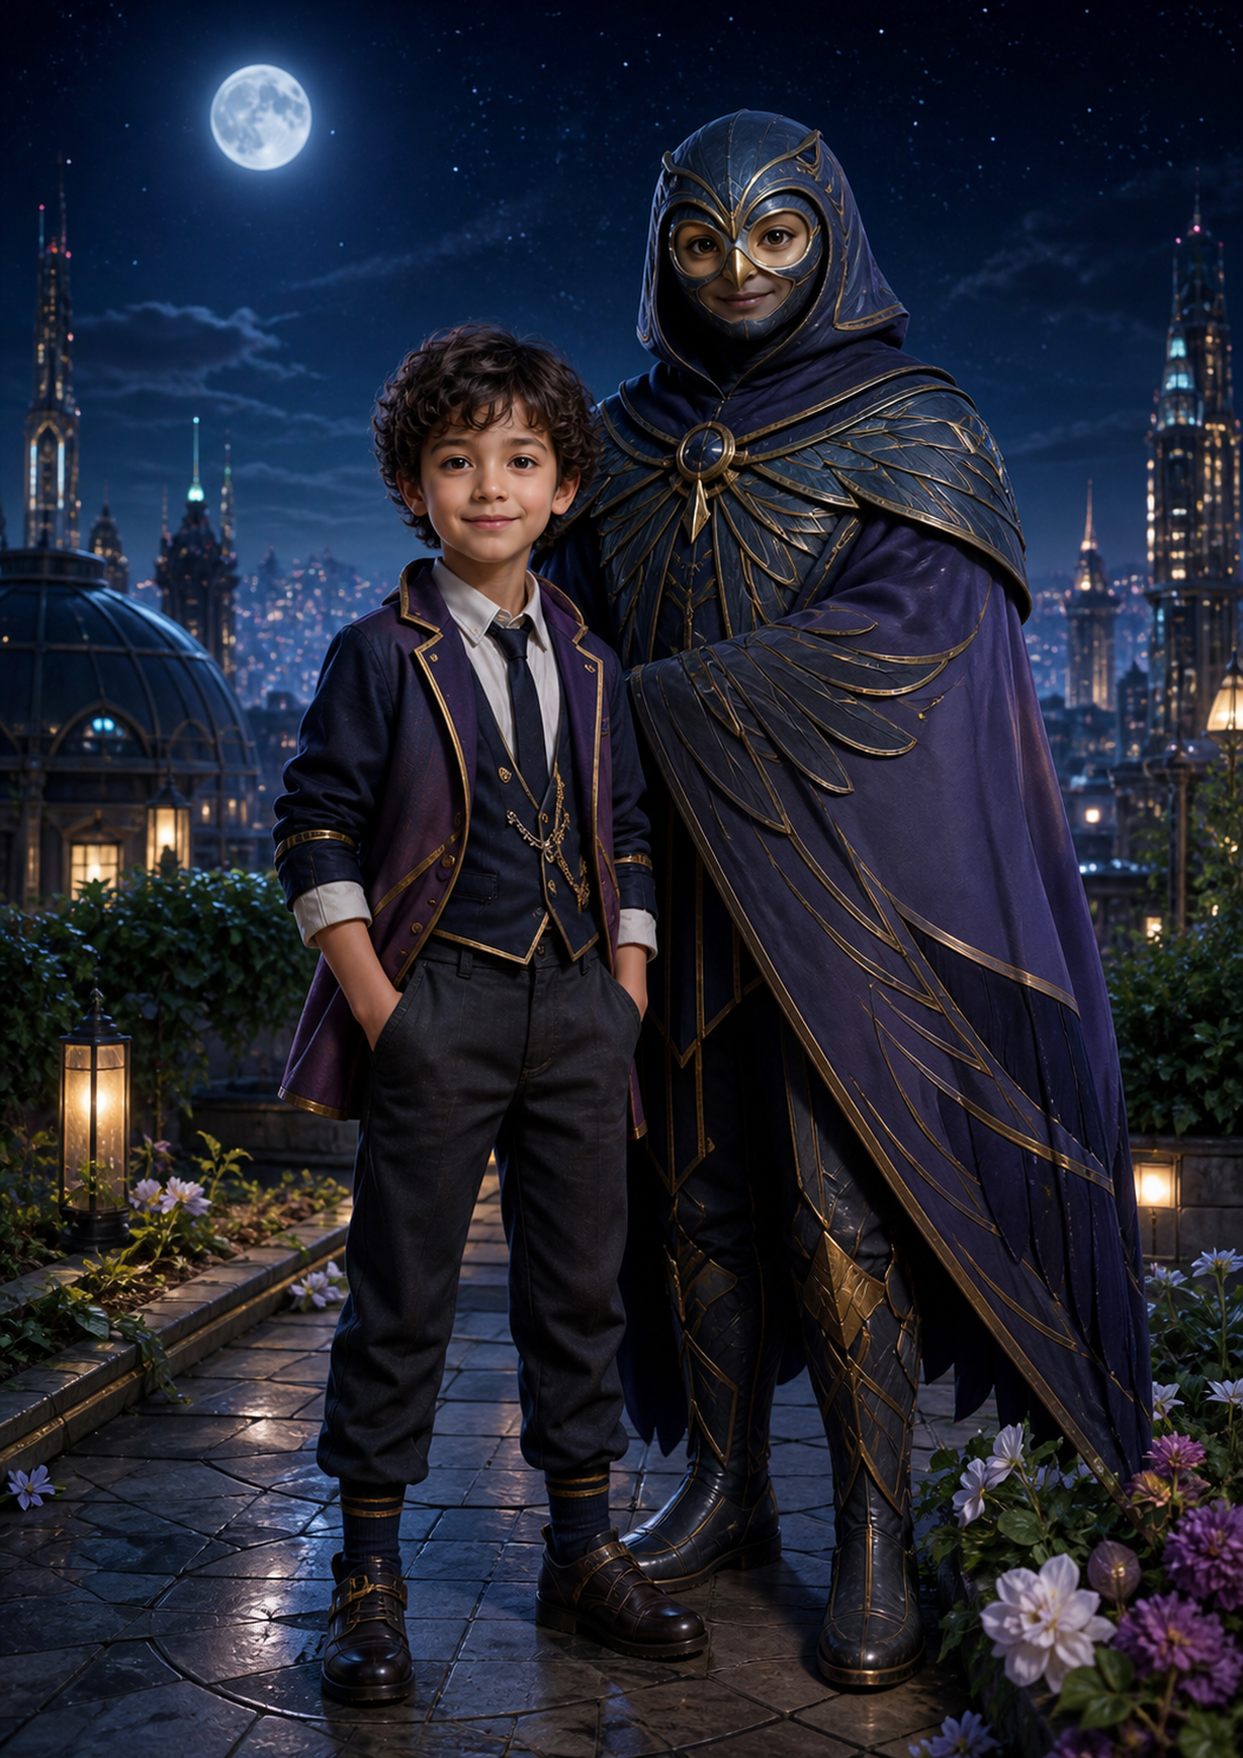
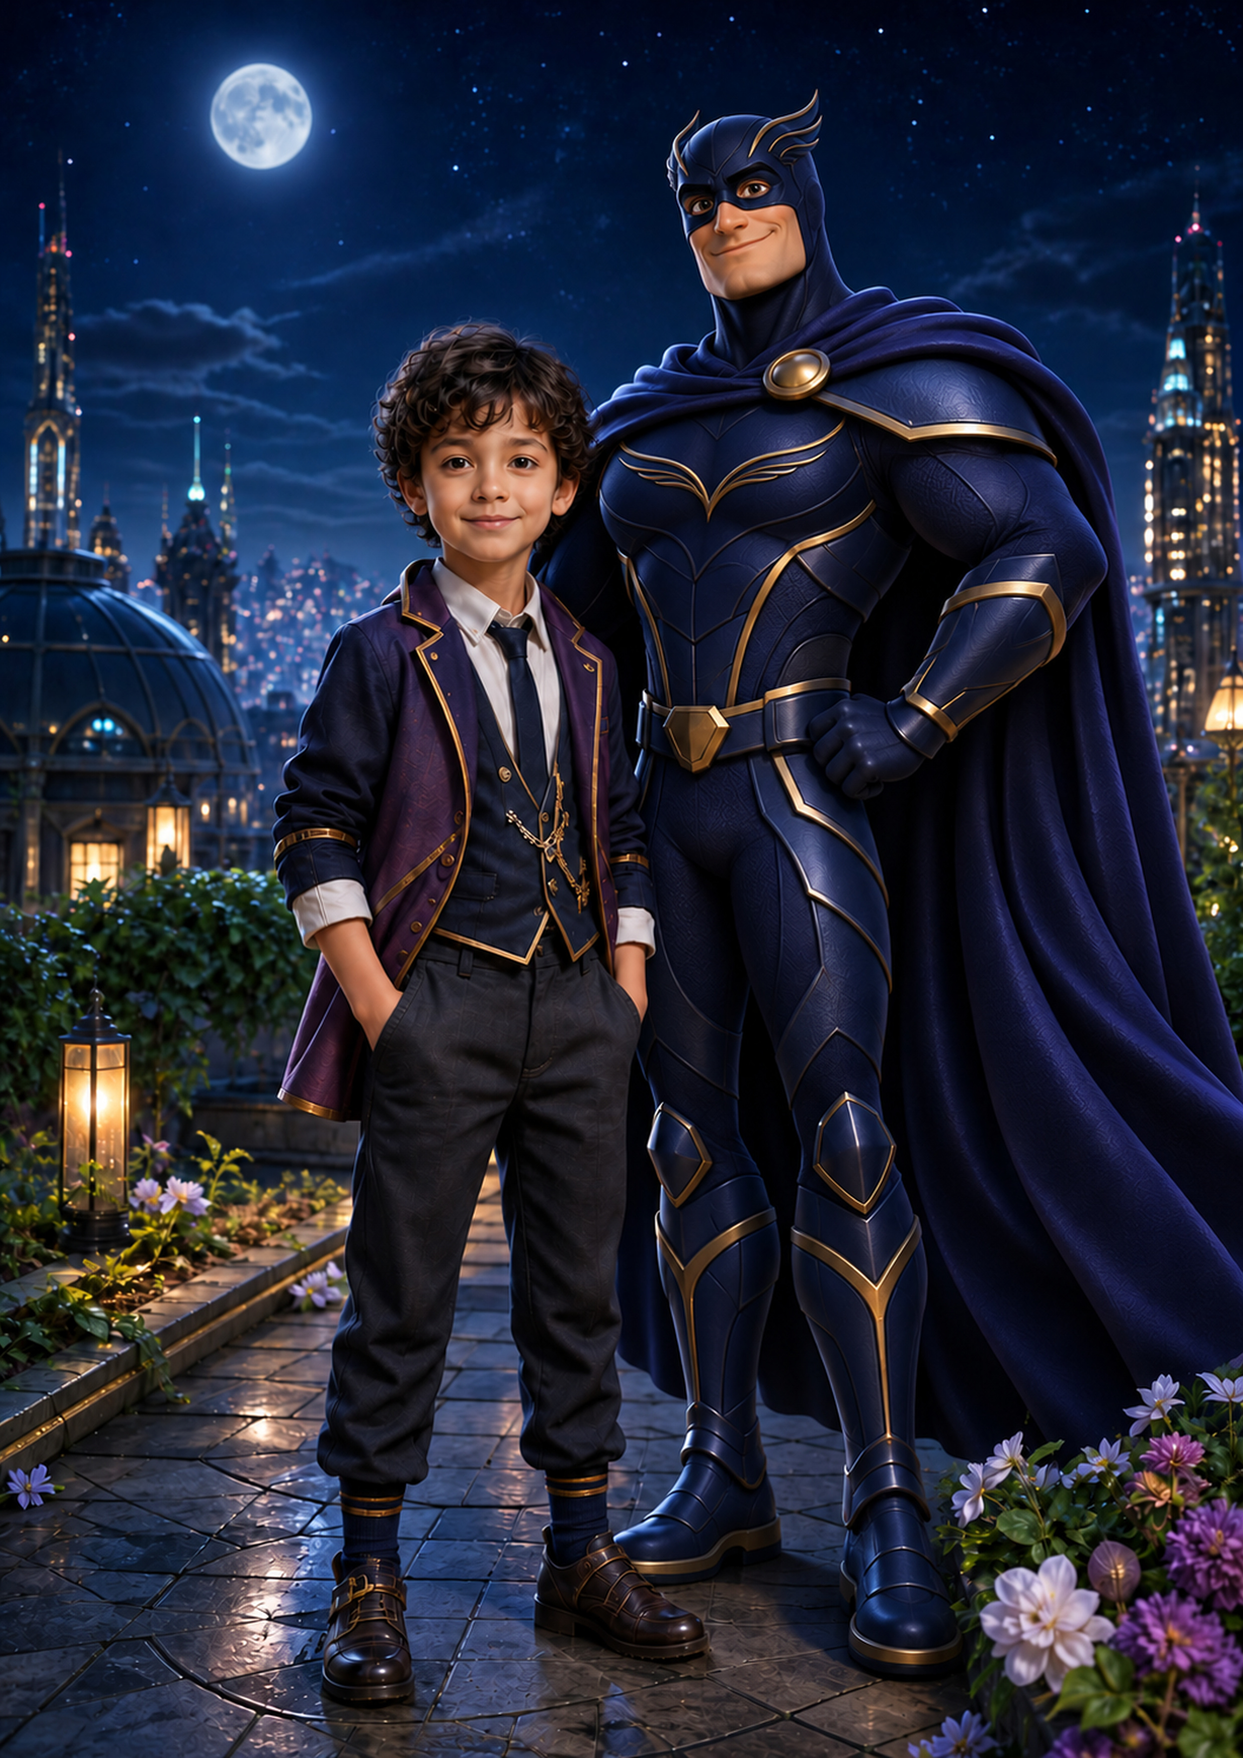
Refresh child character portraits and Hogwarts themes

diff --git a/js/data/child-portrait-a4-scenes.js b/js/data/child-portrait-a4-scenes.js
@@ -13,13 +13,13 @@ const centeredFace = Object.freeze({ centerX: 0.5, centerY: 0.275, width: 0.175,
 const centeredCadetFace = Object.freeze({ centerX: 0.5, centerY: 0.235, width: 0.17, height: 0.15 });
 const teamFace = Object.freeze({ centerX: 0.36, centerY: 0.27, width: 0.17, height: 0.15 });
 
-const scene = ({ headwear = "none", faceGuide = teamFace, ...item }) => ({
+const scene = ({ headwear = "none", faceGuide = teamFace, version = 3, ...item }) => ({
   ...item,
   headwear,
   faceGuide,
   canvas: A4_CHILD_PORTRAIT_CANVAS,
   enabled: true,
-  version: 3
+  version
 });
 
 export const A4_CHILD_PORTRAIT_SCENES = Object.freeze([
@@ -40,9 +40,10 @@ export const A4_CHILD_PORTRAIT_SCENES = Object.freeze([
   scene({ id: "child-boy-solar-cape-guardian", title: "Супермен", grade: 2, gender: "boy", theme: "solar-cape-guardian", tags: ["супергерой", "плащ", "город", "команда", "a4"], description: "Ребёнок рядом с оригинальным солнечным защитником в плаще." }),
   scene({ id: "child-boy-emerald-giant-friend", title: "Халк", grade: 2, gender: "boy", theme: "emerald-giant-friend", tags: ["супергерой", "великан", "наука", "дружба", "a4"], description: "Добрый изумрудный великан показывает большой палец рядом с ребёнком." }),
   scene({ id: "child-boy-iron-tech-guardian", title: "Железный человек", grade: 3, gender: "boy", theme: "iron-tech-guardian", tags: ["супергерой", "броня", "технологии", "команда", "a4"], description: "Оригинальный бронированный техностраж рядом с ребёнком в городе будущего." }),
-  scene({ id: "child-boy-thunder-guardian", title: "Тор", grade: 3, gender: "boy", theme: "thunder-guardian", tags: ["супергерой", "гром", "броня", "горы", "a4"], description: "Ребёнок в команде с оригинальным защитником небесной обсерватории." }),
+  scene({ id: "child-boy-thunder-guardian", title: "Тор", grade: 3, gender: "boy", theme: "thunder-guardian", tags: ["супергерой", "гром", "броня", "горы", "a4"], description: "Ребёнок рядом с молодым защитником небесной обсерватории.", version: 4 }),
   scene({ id: "child-boy-speed-hedgehog-friend", title: "Соник", grade: 1, gender: "boy", theme: "speed-hedgehog-friend", tags: ["мультфильм", "скорость", "синий зверёк", "дружба", "a4"], description: "Весёлый скоростной зверёк даёт ребёнку пять на яркой трассе." }),
-  scene({ id: "child-boy-night-wing-guardian", title: "Бэтмен", grade: 3, gender: "boy", theme: "night-wing-guardian", tags: ["супергерой", "ночь", "крылья", "город", "a4"], description: "Оригинальный крылатый защитник рядом с ребёнком в лунном саду." }),
+  scene({ id: "child-boy-night-wing-guardian", title: "Бэтмен", grade: 3, gender: "boy", theme: "night-wing-guardian", tags: ["супергерой", "ночь", "крылья", "город", "мультяшный", "a4"], description: "Мужественный мультяшный ночной защитник рядом с ребёнком в лунном саду.", version: 4 }),
+  scene({ id: "child-boy-hogwarts-harry", title: "Хогвартс — Гарри Поттер", grade: 2, gender: "boy", theme: "hogwarts-harry", tags: ["хогвартс", "гарри поттер", "магия", "школа", "волшебник", "a4"], description: "Юный волшебник Гарри Поттер в библиотеке Хогвартса.", faceGuide: { centerX: 0.5, centerY: 0.205, width: 0.24, height: 0.18 }, version: 4 }),
   scene({ id: "child-boy-ninja-turtle-friend", title: "Черепашки-ниндзя", grade: 1, gender: "boy", theme: "ninja-turtle-friend", tags: ["мультфильм", "черепаха", "исследователь", "дружба", "a4"], description: "Добрая черепаха-путешественник приветствует ребёнка в вечернем саду." }),
   scene({ id: "child-boy-robot-lion-pilot", title: "Вольтрон", grade: 2, gender: "boy", theme: "robot-lion-pilot", tags: ["робот", "лев", "космос", "дружба", "a4"], description: "Ребёнок рядом с благородным белым роботом-львом в космическом ангаре." }),
   scene({ id: "child-boy-cosmic-ranger-friend", title: "Базз Лайтер", grade: 2, gender: "boy", theme: "cosmic-ranger-friend", tags: ["космос", "рейнджер", "планета", "команда", "a4"], description: "Оригинальный космический исследователь показывает ребёнку карту далёкой планеты." }),
@@ -58,15 +59,15 @@ export const A4_CHILD_PORTRAIT_SCENES = Object.freeze([
   scene({ id: "child-girl-rose-princess-beast", title: "Белль и Чудовище", grade: 2, gender: "girl", theme: "rose-princess-beast", tags: ["принцесса", "зверь", "роза", "библиотека", "a4"], description: "Ребёнок, книжная красавица и добрый зверь в зачарованной библиотеке." }),
   scene({ id: "child-girl-glass-slipper-princess", title: "Золушка", grade: 1, gender: "girl", theme: "glass-slipper-princess", tags: ["принцесса", "туфелька", "дворец", "сказка", "a4"], description: "Принцесса бала показывает ребёнку хрустальную туфельку на дворцовой лестнице." }),
   scene({ id: "child-girl-coral-sea-princess", title: "Ариэль", grade: 2, gender: "girl", theme: "coral-sea-princess", tags: ["принцесса", "море", "кораллы", "сказка", "a4"], description: "Морская принцесса со светящейся раковиной рядом с ребёнком в подводном дворце." }),
-  scene({ id: "child-girl-ocean-wayfinder", title: "Моана", grade: 3, gender: "girl", theme: "ocean-wayfinder", tags: ["океан", "путешествие", "остров", "лодка", "a4"], description: "Отважная океанская путешественница встречает ребёнка на тропическом берегу." }),
-  scene({ id: "child-girl-northern-crystal-queen", title: "Эльза", grade: 3, gender: "girl", theme: "northern-crystal-queen", tags: ["королева", "север", "кристаллы", "сияние", "a4"], description: "Добрая северная королева с кристальным фонарём под полярным сиянием." }),
+  scene({ id: "child-girl-ocean-wayfinder", title: "Моана", grade: 3, gender: "girl", theme: "ocean-wayfinder", tags: ["океан", "путешествие", "остров", "лодка", "a4"], description: "Молодая океанская путешественница встречает ребёнка на тропическом берегу.", version: 4 }),
+  scene({ id: "child-girl-northern-crystal-queen", title: "Эльза", grade: 3, gender: "girl", theme: "northern-crystal-queen", tags: ["королева", "север", "кристаллы", "сияние", "a4"], description: "Молодая северная королева с кристальным фонарём под полярным сиянием.", version: 4 }),
   scene({ id: "child-girl-moon-warrior-princess", title: "Лунная принцесса-воительница", grade: 4, gender: "girl", theme: "moon-warrior-princess", tags: ["принцесса", "луна", "воительница", "дворец", "a4"], description: "Мирная лунная принцесса с веером рядом с ребёнком в цветущем дворе." }),
   scene({ id: "child-girl-desert-palace-princess", title: "Жасмин", grade: 3, gender: "girl", theme: "desert-palace-princess", tags: ["принцесса", "дворец", "пустыня", "фонарь", "a4"], description: "Восточная принцесса с фонарём на террасе над сказочным городом." }),
   scene({ id: "child-girl-star-cape-heroine", title: "Капитан Марвел", grade: 3, gender: "girl", theme: "star-cape-heroine", tags: ["супергероиня", "плащ", "город", "команда", "a4"], description: "Ребёнок рядом с оригинальной звёздной героиней на крыше города будущего." }),
   scene({ id: "child-girl-sun-shield-heroine", title: "Чудо-женщина", grade: 3, gender: "girl", theme: "sun-shield-heroine", tags: ["супергероиня", "щит", "храм", "команда", "a4"], description: "Оригинальная защитница с солнечным щитом стоит рядом с ребёнком." }),
-  scene({ id: "child-girl-ladybird-heroine", title: "Леди Баг", grade: 2, gender: "girl", theme: "ladybird-heroine", tags: ["супергероиня", "божья коровка", "город", "талисман", "a4"], description: "Городская героиня с мотивом божьей коровки дарит ребёнку талисман удачи." }),
+  scene({ id: "child-girl-ladybird-heroine", title: "Леди Баг и Супер-Кот", grade: 2, gender: "girl", theme: "ladybird-heroine", tags: ["супергероиня", "божья коровка", "супер-кот", "мультяшный", "город", "талисман", "a4"], description: "Мультяшные Леди Баг и Супер-Кот дарят ребёнку талисман удачи.", version: 4 }),
   scene({ id: "child-girl-bear-forest-friend", title: "Маша и Медведь", grade: 1, gender: "girl", theme: "bear-forest-friend", tags: ["медведь", "лес", "домик", "дружба", "a4"], description: "Ребёнок с добрым медведем на солнечной поляне у деревянного домика." }),
-  scene({ id: "child-girl-fashion-dream-friend", title: "Барби", grade: 3, gender: "girl", theme: "fashion-dream-friend", tags: ["мода", "розовый", "студия", "наставница", "a4"], description: "Модная наставница помогает ребёнку придумать праздничный образ в светлой студии." }),
+  scene({ id: "child-girl-fashion-dream-friend", title: "Барби", grade: 3, gender: "girl", theme: "fashion-dream-friend", tags: ["мода", "розовый", "студия", "наставница", "a4"], description: "Молодая модная наставница помогает ребёнку придумать праздничный образ в светлой студии.", version: 4 }),
   scene({ id: "child-girl-butterfly-fairy-mentor", title: "Фея-бабочка", grade: 1, gender: "girl", theme: "butterfly-fairy-mentor", tags: ["фея", "бабочка", "сад", "волшебство", "a4"], description: "Оригинальная фея-бабочка с цветочным фонарём рядом с ребёнком в волшебном саду." })
 ]);
 

diff --git a/sw.js b/sw.js
@@ -1,5 +1,5 @@
 const CACHE_PREFIX = "vakha-studio-cache-";
-const CACHE_VERSION = "v132";
+const CACHE_VERSION = "v133";
 const CACHE_NAME = `${CACHE_PREFIX}${CACHE_VERSION}`;
 const CHILD_TEMPLATE_PREVIEWS = [
   "child-boy-mma-tank", "child-boy-mma-shirt", "child-boy-boxing-tank", "child-boy-boxing-shirt",
@@ -21,7 +21,7 @@ const CHILD_TEMPLATE_PREVIEWS = [
   "child-boy-rescue-helicopter-pilot", "child-boy-solar-cape-guardian",
   "child-boy-emerald-giant-friend", "child-boy-iron-tech-guardian",
   "child-boy-thunder-guardian", "child-boy-speed-hedgehog-friend",
-  "child-boy-night-wing-guardian", "child-boy-ninja-turtle-friend",
+  "child-boy-night-wing-guardian", "child-boy-hogwarts-harry", "child-boy-ninja-turtle-friend",
   "child-boy-robot-lion-pilot", "child-boy-cosmic-ranger-friend",
   "child-boy-city-hero-shield", "child-girl-chechen-mosque-garden",
   "child-girl-chechen-stone-tower", "child-girl-chechen-wolf-companion",
@@ -83,13 +83,13 @@ const APP_SHELL = [
   "./",
   "./index.html",
   "./styles.css",
-  "./styles.css?v=132",
+  "./styles.css?v=133",
   "./app.js",
   "./js/core/app.js",
-  "./js/core/app.js?v=132",
+  "./js/core/app.js?v=133",
   "./js/core/bootstrap.js",
   "./js/core/legacy-app.js",
-  "./js/core/legacy-app.js?v=132",
+  "./js/core/legacy-app.js?v=133",
   "./js/core/router.js",
   "./js/core/state.js",
   "./js/core/events.js",
@@ -111,7 +111,7 @@ const APP_SHELL = [
   "./js/services/transfer-asset-loader.js",
   "./js/services/catalog-themes.js",
   "./js/services/teacher-broadcast.js",
-  "./js/services/teacher-broadcast.js?v=132",
+  "./js/services/teacher-broadcast.js?v=133",
   "./js/services/class-links-transfer.js",
   "./assets/class-photo/class-photo-a4.png",
   "./assets/game-photo-services/free-fire.webp",
@@ -169,7 +169,7 @@ const APP_SHELL = [
   "./js/services/backup-service.js",
   "./js/services/conflict-service.js",
   "./js/services/export-filter-service.js",
-  "./js/services/export-filter-service.js?v=132",
+  "./js/services/export-filter-service.js?v=133",
   "./js/services/file-system-service.js",
   "./js/services/integrity-service.js",
   "./js/services/import-preflight-service.js",

diff --git a/js/data/child-portrait-templates.js b/js/data/child-portrait-templates.js
@@ -193,9 +193,9 @@ export const CHILD_PORTRAIT_TEMPLATES = [
     faceGuide: { centerX: 0.5, centerY: 0.265, width: 0.21, height: 0.185 }
   }),
   template({
-    id: "child-girl-magic-academy-hijab", title: "Академия магии", grade: 2, gender: "girl", headwear: "hijab", theme: "magic-academy",
-    tags: ["магия", "академия", "хиджаб"], description: "Ученица доброй академии магии в аккуратном светлом хиджабе.",
-    faceGuide: { centerX: 0.5, centerY: 0.285, width: 0.205, height: 0.18 }
+    id: "child-girl-magic-academy-hijab", title: "Хогвартс — Гермиона", grade: 2, gender: "girl", headwear: "hijab", theme: "hogwarts-hermione",
+    tags: ["хогвартс", "гермиона", "магия", "школа", "хиджаб"], description: "Юная волшебница Гермиона в библиотеке Хогвартса, в аккуратном светлом хиджабе.",
+    faceGuide: { centerX: 0.5, centerY: 0.285, width: 0.205, height: 0.18 }, version: 3
   }),
   template({
     id: "child-girl-horse-rider-headscarf", title: "Юная наездница", grade: 4, gender: "girl", headwear: "headscarf", theme: "horse-rider",

diff --git a/js/core/legacy-app.js b/js/core/legacy-app.js
@@ -1,8 +1,8 @@
-import { openTeacherBroadcast } from "../services/teacher-broadcast.js?v=132";
+import { openTeacherBroadcast } from "../services/teacher-broadcast.js?v=133";
 import { parseClassLinksTransfer, planClassLinksImport } from "../services/class-links-transfer.js";
 import { CATALOG_THEMES, matchesCatalogTheme } from "../services/catalog-themes.js";
 import { createTransferAssetLoader } from "../services/transfer-asset-loader.js";
-import { buildSectionExportSelection } from "../services/export-filter-service.js?v=132";
+import { buildSectionExportSelection } from "../services/export-filter-service.js?v=133";
 import { mountRosterPhotoImport } from "../services/roster-photo-import.js";
 import { appendPhotoNames } from "../services/roster-photo-parser.js";
 import { rosterName, parseRoster, planRoster } from "../services/class-roster.js";

diff --git a/index.html b/index.html
@@ -6,7 +6,7 @@
     <meta name="theme-color" content="#2563EB" />
     <title>Vakha Studio</title>
     <link rel="manifest" href="./manifest.webmanifest" />
-    <link rel="stylesheet" href="./styles.css?v=132" />
+    <link rel="stylesheet" href="./styles.css?v=133" />
   </head>
   <body>
     <div id="app" class="app-shell">
@@ -66,6 +66,6 @@
     <script src="./vendor/jsQR.js"></script>
     <script src="./vendor/zxing.min.js"></script>
     <script src="./vendor/JsBarcode.code128.min.js"></script>
-    <script type="module" src="./js/core/app.js?v=132"></script>
+    <script type="module" src="./js/core/app.js?v=133"></script>
   </body>
 </html>

diff --git a/js/core/app.js b/js/core/app.js
@@ -8,7 +8,7 @@ export async function bootstrap() {
   state.appVersion = APP_VERSION;
   state.router = router;
 
-  await import("./legacy-app.js?v=132");
+  await import("./legacy-app.js?v=133");
 }
 
 bootstrap();
